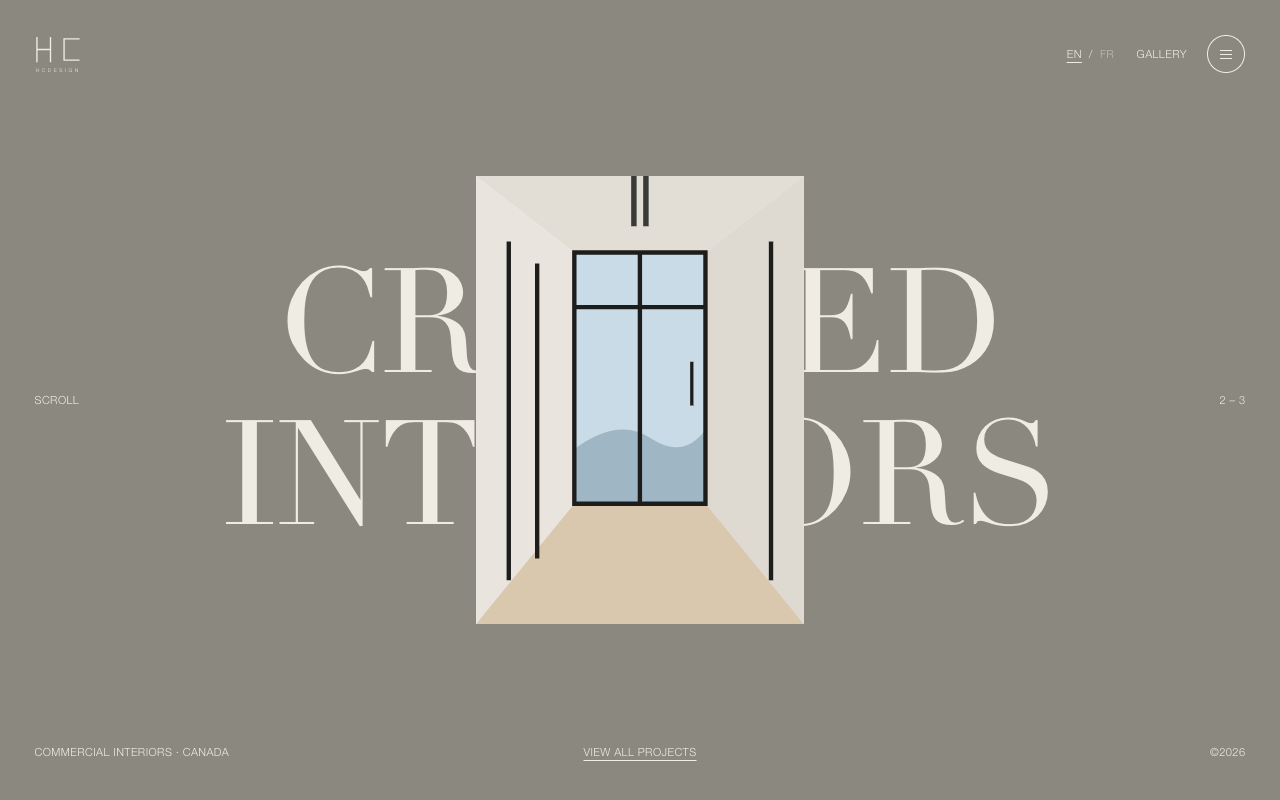
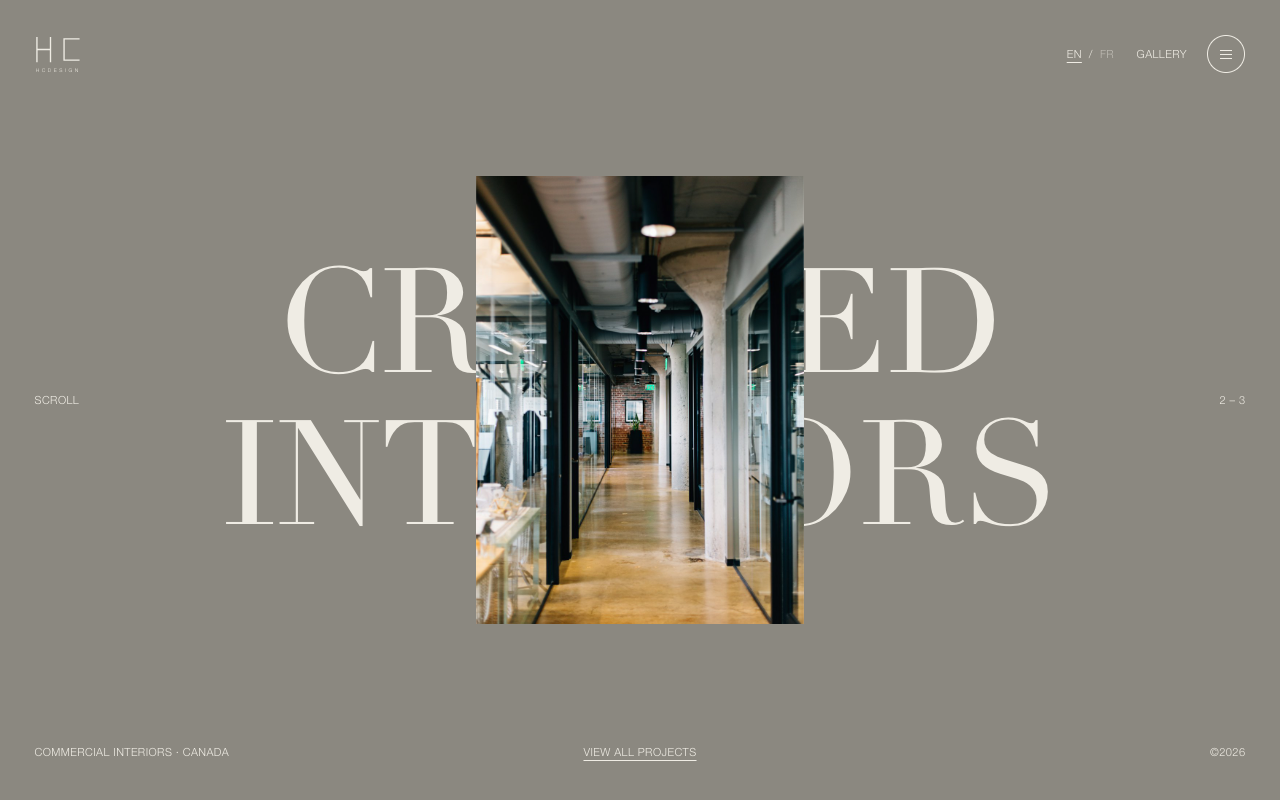
Replace slide illustrations with licensed interior photographs

Changed region(s): [[0.375, 0.2188, 0.625, 0.7812]]

diff --git a/styles.css b/styles.css
@@ -102,11 +102,12 @@ body:not(.is-loading) .loader { opacity: 0; visibility: hidden; pointer-events: 
 .is-ready .card { clip-path: inset(0); }
 .slide { position: absolute; inset: 0; overflow: hidden; clip-path: inset(100% 0 0 0); }
 .card[data-dir="prev"] .slide { clip-path: inset(0 0 100% 0); }
-.slide svg { display: block; width: 100%; height: 100%; transform: scale(1.25); }
+.slide svg, .slide img { display: block; width: 100%; height: 100%; transform: scale(1.25); }
+.slide img { position: absolute; inset: 0; object-fit: cover; }
 .slide.is-prev, .card[data-dir="prev"] .slide.is-prev { clip-path: inset(0); z-index: 1; }
 .slide.is-active, .card[data-dir="prev"] .slide.is-active { clip-path: inset(0); z-index: 2; transition: clip-path 1s var(--ease); }
-.slide.is-active svg { transform: scale(1); transition: transform 1.4s var(--ease); }
-.slide.is-active:hover svg { transform: scale(1.04); }
+.slide.is-active svg, .slide.is-active img { transform: scale(1); transition: transform 1.4s var(--ease); }
+.slide.is-active:hover svg, .slide.is-active:hover img { transform: scale(1.04); }
 
 .foot {
   position: absolute; left: 0; right: 0; bottom: 0; z-index: 3; padding: var(--pad);
@@ -211,5 +212,5 @@ body:not(.is-loading) .loader { opacity: 0; visibility: hidden; pointer-events: 
 /* ---------- Reduced motion ---------- */
 @media (prefers-reduced-motion: reduce) {
   *, *::before, *::after { transition-duration: .01ms !important; transition-delay: 0s !important; animation-duration: .01ms !important; }
-  .slide svg { transform: none; }
+  .slide svg, .slide img { transform: none; }
 }

diff --git a/index.html b/index.html
@@ -70,6 +70,7 @@
           <path d="M100 82v60" stroke="#4a463f" stroke-width="1.5"/>
           <ellipse cx="100" cy="150" rx="12" ry="16" fill="none" stroke="#4a463f" stroke-width="1.5"/>
         </svg>
+        <img src="images/01-lounge.jpg" alt="" width="900" height="1230" decoding="async" onerror="this.remove()">
       </a>
       <a class="slide" href="#projects" data-bg="#8b8880" aria-label="Kiln Studio, Toronto" tabindex="-1" aria-hidden="true">
         <svg viewBox="0 0 300 410" preserveAspectRatio="xMidYMid slice" aria-hidden="true">
@@ -87,6 +88,7 @@
           <rect x="153" y="0" width="5" height="46" fill="#3a3a38"/>
           <rect x="196" y="170" width="3" height="40" fill="#1d1d1c"/>
         </svg>
+        <img src="images/02-corridor.jpg" alt="" width="900" height="1230" decoding="async" onerror="this.remove()">
       </a>
       <a class="slide" href="#projects" data-bg="#1b1b1a" aria-label="Harbour Office, Vancouver" tabindex="-1" aria-hidden="true">
         <svg viewBox="0 0 300 410" preserveAspectRatio="xMidYMid slice" aria-hidden="true">
@@ -106,6 +108,7 @@
           <path d="M100 318q0-30 22-30t22 30v20h-44zM150 300q0-26 20-26t20 26v18h-40zM196 284q0-22 17-22t17 22v14h-34z" fill="#161616"/>
           <circle cx="176" cy="148" r="12" fill="#3f6a45"/>
         </svg>
+        <img src="images/03-boardroom.jpg" alt="" width="900" height="1230" decoding="async" onerror="this.remove()">
       </a>
     </div>
 

diff --git a/main.js b/main.js
@@ -63,7 +63,9 @@
       const p = Math.min(1, (Date.now() - t0) / D), e = 1 - Math.pow(1 - p, 3);
       num.textContent = Math.round(e * 100);
       bar.style.transform = `scaleX(${e})`;
-      if (p === 1) { clearInterval(timer); setTimeout(ready, 300); }
+      // hold at 100% until the first photo is in (or 4 s have passed), so the stage never opens on a blank card
+      const first = document.querySelector('.slide img');
+      if (p === 1 && (!first || first.complete || Date.now() - t0 > 4000)) { clearInterval(timer); setTimeout(ready, 300); }
     }, 30);
   }
 

diff --git a/REPORT.md b/REPORT.md
@@ -4,7 +4,7 @@
 
 - **Reference:** <https://lironmoran-interiors.com/> (home page, viewed 16 November 2026)
 - **Remake:** this repository (`index.html`, `styles.css`, `main.js`), branded **HCDESIGN**, set in Canada, in English and French
-- **Checked:** 16 November 2026, in headless Google Chrome via `tools/check.mjs`
+- **Checked:** 17 November 2026, in headless Google Chrome via `tools/check.mjs`
 
 ## Whose criteria these are
 
@@ -24,8 +24,19 @@ page; short stand-in views for projects, about and contact exist so that no
 link is dead.
 
 The remake does **not** copy the reference's name, text, logo, fonts or
-photographs. Copy is original, project names are invented, and the three
-"photos" are flat SVG illustrations.
+photographs. Copy is original and project names are invented. The three slide
+photographs are freely licensed images stored in `images/`, credited below; a
+flat SVG sits behind each one as a placeholder until it loads.
+
+### Photo credits
+
+All three are from Unsplash, under the Unsplash licence, cropped to 900×1230:
+
+| File | Photographer | Source |
+| --- | --- | --- |
+| `images/01-lounge.jpg` | [@jipy32](https://unsplash.com/@jipy32) | <https://unsplash.com/photos/modern-chairs-in-office-workspace-Gdufctyvzjo> |
+| `images/02-corridor.jpg` | [@miabaker](https://unsplash.com/@miabaker) | <https://unsplash.com/photos/office-hallway-with-glass-walls-jjhvyxm34nY> |
+| `images/03-boardroom.jpg` | [@\_\_\_atmos](https://unsplash.com/@___atmos) | <https://unsplash.com/photos/modern-conference-room-with-leather-chairs-and-table-Q31mm9jfUWU> |
 
 ## Results
 
@@ -41,6 +52,7 @@ Every check passed on the final run. Raw output is in `report/result.json`.
 | Portrait image centred on top of the title | Centred portrait card, in front of the title, both title lines visible either side | Pass |
 | "Scroll" label left, "1 – 3" counter right | Same | Pass |
 | Three projects; scrolling swaps image and background colour, and loops | 3 slides, 3 background colours, loops forward and backward | Pass |
+| Interior photographs in the card | 3 photographs, served from this repository, filling the card; loader waits for the first one | Pass |
 | Footer: tagline, "View all projects", year | Same | Pass |
 | Small ring cursor that grows over the image | Follows the pointer, grows with a "View" label over the image | Pass |
 | Single screen, no page scroll | No vertical or sideways scroll at 1280, 768 and 375 px | Pass |
@@ -80,8 +92,9 @@ as more than it is.
 - **Content is placeholder.** Copy, project names, cities and dates are
   invented, and `hello@hcdesign.example` is not a real address. The French was
   written by Claude and has not been reviewed by a native speaker.
-- **Illustrations, not photographs.** The slides are simple SVG drawings.
-  Real project photos need to come from the owner.
+- **Stock photographs, not this studio's work.** The three slide photos are
+  freely licensed stock images of other people's interiors, credited above.
+  They stand in for real project photography, which has to come from the owner.
 - **Inner pages are stand-ins.** Projects, About and Contact are short
   full-screen views inside the same page, not remakes of the reference's
   pages. "Gallery" opens the projects list. There are no project detail pages.
@@ -94,11 +107,13 @@ as more than it is.
   are not included, because HCDESIGN's accounts are not known.
 - **Not compared pixel by pixel.** Checks are structural and behavioural. No
   visual-diff against the reference was run.
-- **Run history.** Three runs were made. The first passed, but its
+- **Run history.** Four runs were made. The first passed, but its
   screenshots showed the title hidden behind the image on phones and the large
   cursor staying on screen when the menu opened; both were fixed and checks
   for them were added. The second run then failed the new title check at
-  768 px; the layout was adjusted and the third run passed everything.
+  768 px; the layout was adjusted and the third run passed everything. The
+  fourth run was after the drawings were replaced with photographs, with three
+  further checks added for them; it passed everything.
 - **Check script is macOS-specific** unless the `CHROME` environment variable
   points at a Chrome binary.
 
